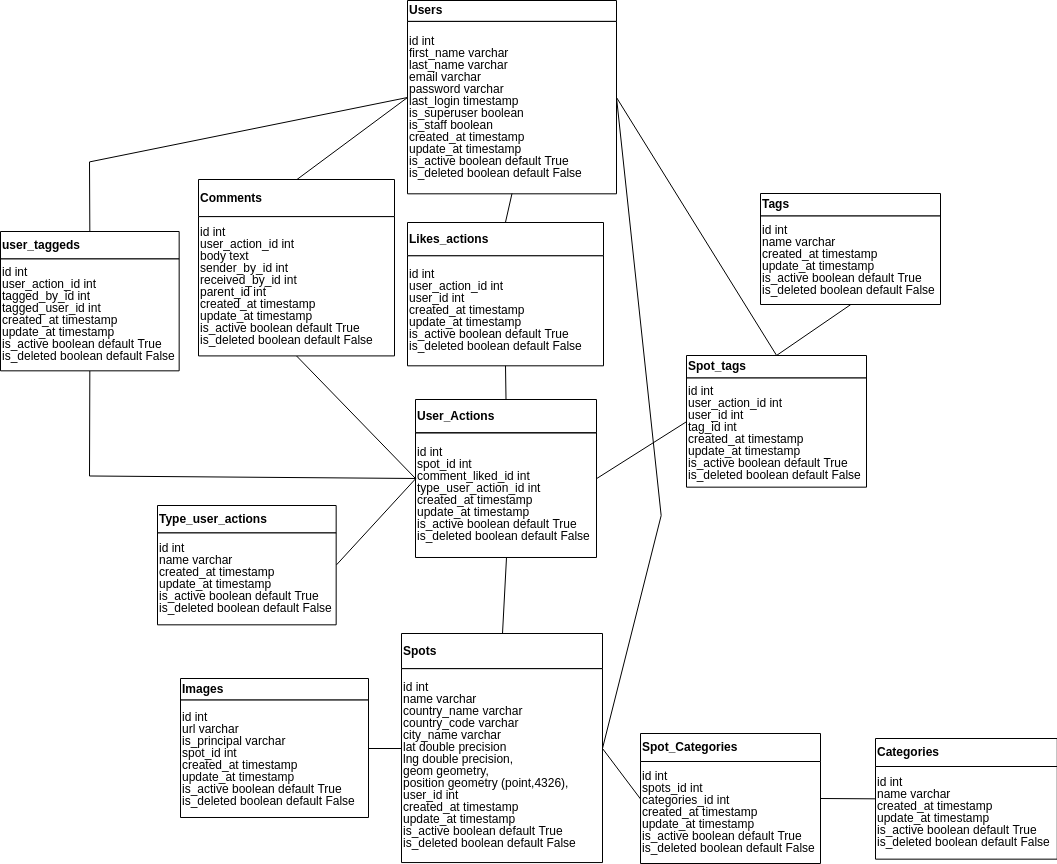
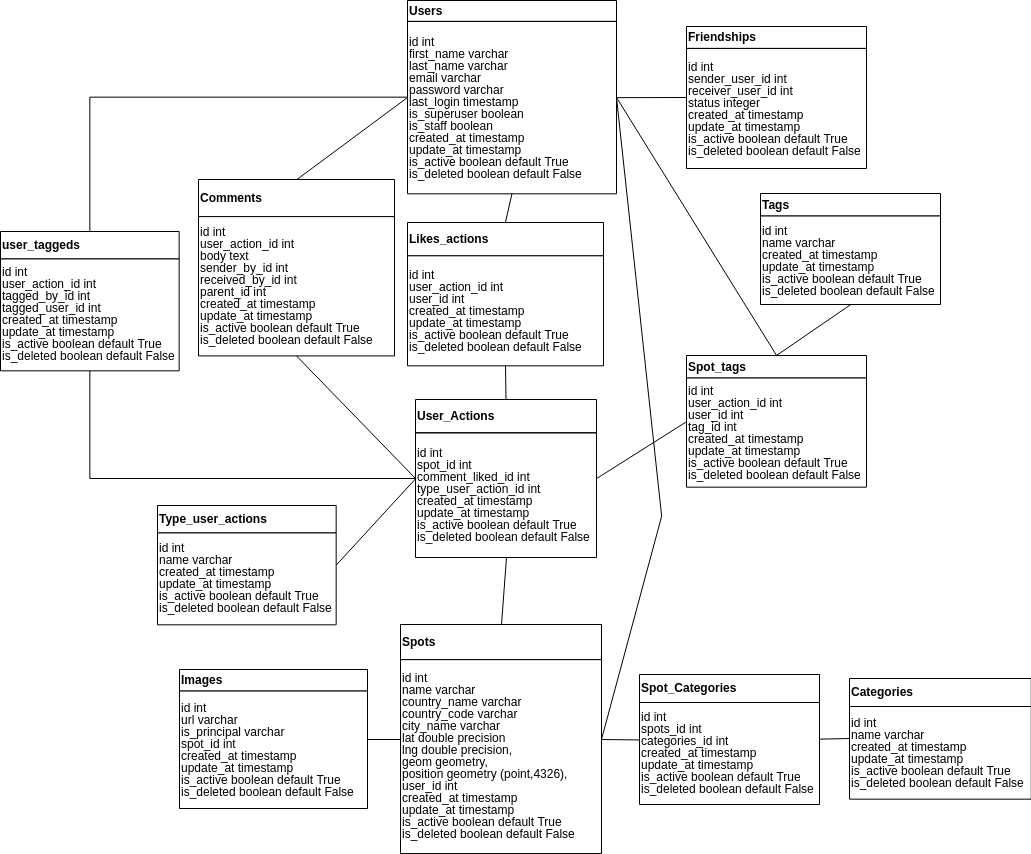
Adding search by friends in udf_spots_nearby_within_X_kilometers_from_current_user_position

diff --git a/README.md b/README.md
@@ -81,7 +81,7 @@ a) schema -> functions: generating queries with tree json format:
 
 - udf_tags_get.sql: get the tags related with a spot.
 
-- udf_spots_nearby_within_X_kilometers_from_current_user_position: get the places within 5 km from the current position where you are.
+- udf_spots_nearby_within_X_kilometers_from_current_user_position: get the places within 5 km from the current position where you are. This search also include places of your friends.
 
 b) schema -> tables: examples tables. In "spots" table you can find PostGIS geometry columns (geom and position) used in the functions.
 
